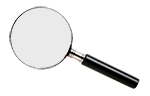
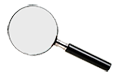
Resized leaf images added flowers

diff --git a/scenes/Plants-Flowers.js b/scenes/Plants-Flowers.js
@@ -1,0 +1,217 @@
+import { SceneProgress, Layers } from './base-scene';
+import { MAIN_HALL, PLANTS_LEAVES } from '../constants/scenes';
+import { GAME_WIDTH, GAME_HEIGHT } from '../constants/config';
+
+import Alert from '../components/alert';
+
+import plantPicJpg from '../assets/pics/plants/leaves/*.jpg'
+import plantPicPng from '../assets/pics/plants/leaves/*.png'
+import linkPicPng  from '../assets/pics/sprites/*.png'
+import audioMp3 from '../assets/audio/*.mp3'
+
+import Plants_Base, { SelectionMode } from './Plants-Base';
+
+let INTRO1_ALERT = 'Intro1_Alert';
+let INTRO2_ALERT = 'Intro2_Alert';
+let FAIL_ALERT   = 'Fail_Alert';
+let SUCCESS_ALERT = 'Success_Alert';
+
+class Plants_Leaves extends Plants_Base {
+	constructor() {
+        super(PLANTS_LEAVES);
+
+        // initialize variables
+		this.scan_limit = 5;
+		this.plants_have_entered = false;
+	}
+
+	preload() {
+		super.preload();
+
+		// Doors
+		this.load.image('hobbit_closed', plantPicJpg.hobbit_closed);
+		this.load.image('hobbit_open', plantPicPng.hobbit_open);
+        
+        // Plants
+		for (const key in this.plants_data) {
+	        this.loadOutlineImage(key);
+	    }
+
+	    // Triquetra
+	    this.load.image('leaf_lock', plantPicPng.leaf_lock);
+	    this.load.image('leaf_lock_bottom_left', plantPicPng.leaf_lock_bottom_left);
+	    this.load.image('leaf_lock_bottom_right', plantPicPng.leaf_lock_bottom_right);
+	    this.load.image('leaf_lock_top', plantPicPng.leaf_lock_top);
+
+        // Audio
+        this.load.audio('woosh', audioMp3.woosh);
+	}
+
+	loadOutlineImage(name) {
+		this.load.image(name, plantPicPng[name]);
+		this.load.image(name+"_outline", plantPicPng[name+"_outline"]);
+	}
+
+	create() {
+		super.create();
+	}
+
+	createBackground() {
+		let center_x = GAME_WIDTH/2,
+			center_y = GAME_HEIGHT/2;
+
+		this.swirl = this.add.image(360, 300, 'aqua_swirl');
+
+		this.background_open = this.add.image(0, 0, 'hobbit_open');
+		this.background_open.setOrigin(0, 0);
+
+		this.background_closed = this.add.image(0, 0, 'hobbit_closed');
+		this.background_closed.setOrigin(0, 0);
+	}
+
+	createCallToAction() {
+		this.sound.play('woosh');
+
+		this.link = this.add.sprite(0, GAME_HEIGHT+256, 'link', 'wave');
+		this.link.setOrigin(0, 1);
+		this.link.setTint(0xaaaaaa);
+
+		this.link.setInteractive({useHandCursor: true})
+			.on('pointerover', () => {this.link.clearTint()})
+			.on('pointerout', () => {this.link.setTint(0xaaaaaa)})
+			.on('pointerup', pointer => {
+				this.clickCallToAction();
+			});
+		this.link.input.cursor = 'pointer';
+
+		var tweens = [];
+
+		tweens.push({
+			targets: this.link,
+			x: 0,
+			y: GAME_HEIGHT,
+			ease: 'Back',
+			duration: 300
+		});
+
+	    var timeline = this.tweens.timeline({ tweens: tweens });
+
+
+	}
+
+	clickCallToAction() {
+		this.runAlert(INTRO1_ALERT);
+	}
+
+// 	resetCallToActionTween() {
+// 		let submarine_reset_tween = {
+// 			targets: this.submarine,
+// 			y: -300,
+// 			ease: 'Sine',
+// 			duration: 1500,
+// 			yoyo: true,
+// 			hold: 2000,
+// 			offset: 0
+// 		}
+// 
+// 		return submarine_reset_tween
+// 	}
+
+	createAlerts() {
+		this.scene.add(INTRO1_ALERT, new Alert(INTRO1_ALERT), false, {
+			title: "Welcome to Hyrule!",
+			content: "I lost the key to my door! Do you think you could help me get it back?",
+			buttonText: "You bet",
+			buttonAction: this.intro1AlertClicked,
+			context: this
+		});
+		this.scene.add(INTRO2_ALERT, new Alert(INTRO2_ALERT), false, {
+			title: "Thanks!",
+			content: `Some of these plants have the right leaves to make a new key.`,
+			buttonText: "Roger",
+			buttonAction: this.intro2AlertClicked,
+			context: this
+		});
+		// this.scene.add(FAIL_ALERT, new Alert(FAIL_ALERT), false, {
+		// 	title: "Time to recharge",
+		// 	content: `We think there are ${this.success_count} invertebrates out there, but we are out of juice. We will be right back!`,
+		// 	buttonText: "OK :(",
+		// 	buttonAction: this.failAlertClicked,
+		// 	context: this
+		// });
+
+		return [INTRO1_ALERT, INTRO2_ALERT];
+	}
+
+	createTools() {
+		super.createTools();
+
+		// Create the triangle
+	}
+
+	intro1AlertClicked() {
+		this.link.clearTint();
+		this.stopAlert(INTRO1_ALERT);
+		this.runAlert(INTRO2_ALERT);
+	}
+
+	intro2AlertClicked() {
+		this.stopAlert(INTRO2_ALERT);
+
+		if (!this.plants_have_entered) {
+			var tweens = [];
+
+			// Animate in plants
+			for (const animal of this.plants) {
+				tweens.push({
+					targets: animal,
+					alpha: 1,
+					ease: 'Sine.easeOut',
+					duration: 1500,
+					offset: 0 // All at once
+				})
+			}
+
+	    	this.tweens.timeline({ tweens: tweens });
+
+			// Animate in tools
+			this.revealTools();
+
+			this.plants_have_entered = true;
+		}
+	}
+
+	willBeginSuccessTransition() {
+		// This alert needs to be created at runtime because success_animals
+		// isn't populated until after createAlerts() is already run.
+		this.scene.add(SUCCESS_ALERT, new Alert(SUCCESS_ALERT), true, {
+			title: "Great work!",
+			content: `You found all ${this.success_animals.length} of the invertebrates. We found the door you were looking for. Thanks for your help!`,
+			buttonText: "Thank you",
+			buttonAction: this.successAlertClicked,
+			context: this
+		});
+	}
+
+	successAlertClicked() {
+		this.scene.stop(SUCCESS_ALERT);
+		this.scene.remove(SUCCESS_ALERT);
+		this.beginSuccessTransition();
+	}
+
+	startNextScene() {
+        this.scene.start(MAIN_HALL);
+        this.scene.shutdown();
+	}
+
+	fail() {
+		this.runAlert(FAIL_ALERT);
+	}
+
+	failAlertClicked() {
+		this.stopAlert(FAIL_ALERT);
+		this.beginFailureTransition();
+	}
+}
+
+export default Plants_Leaves;
